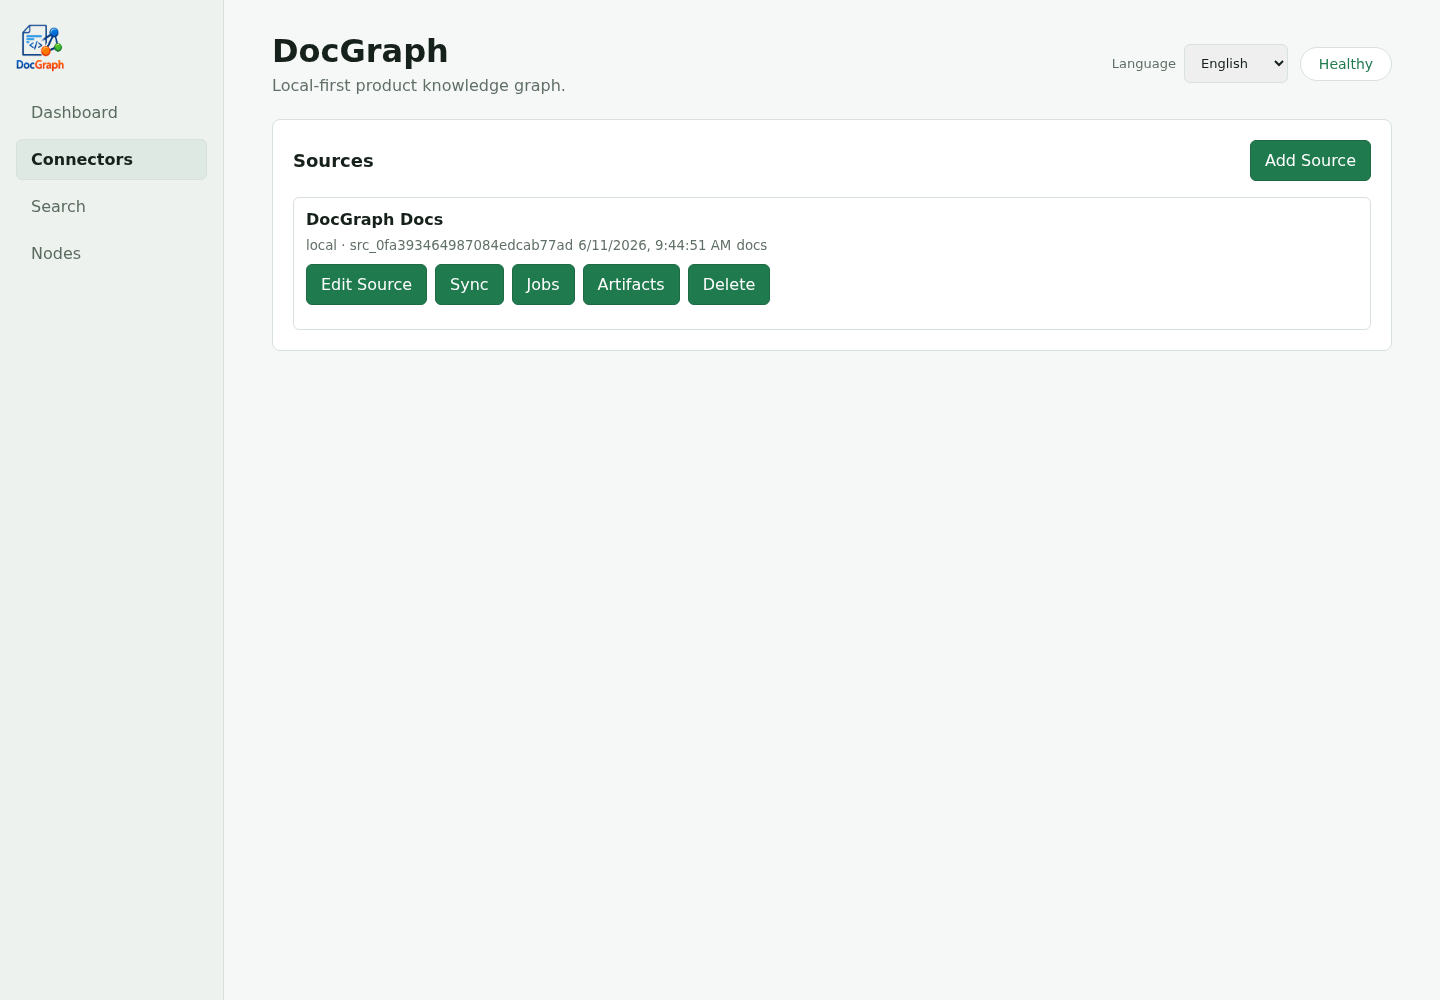
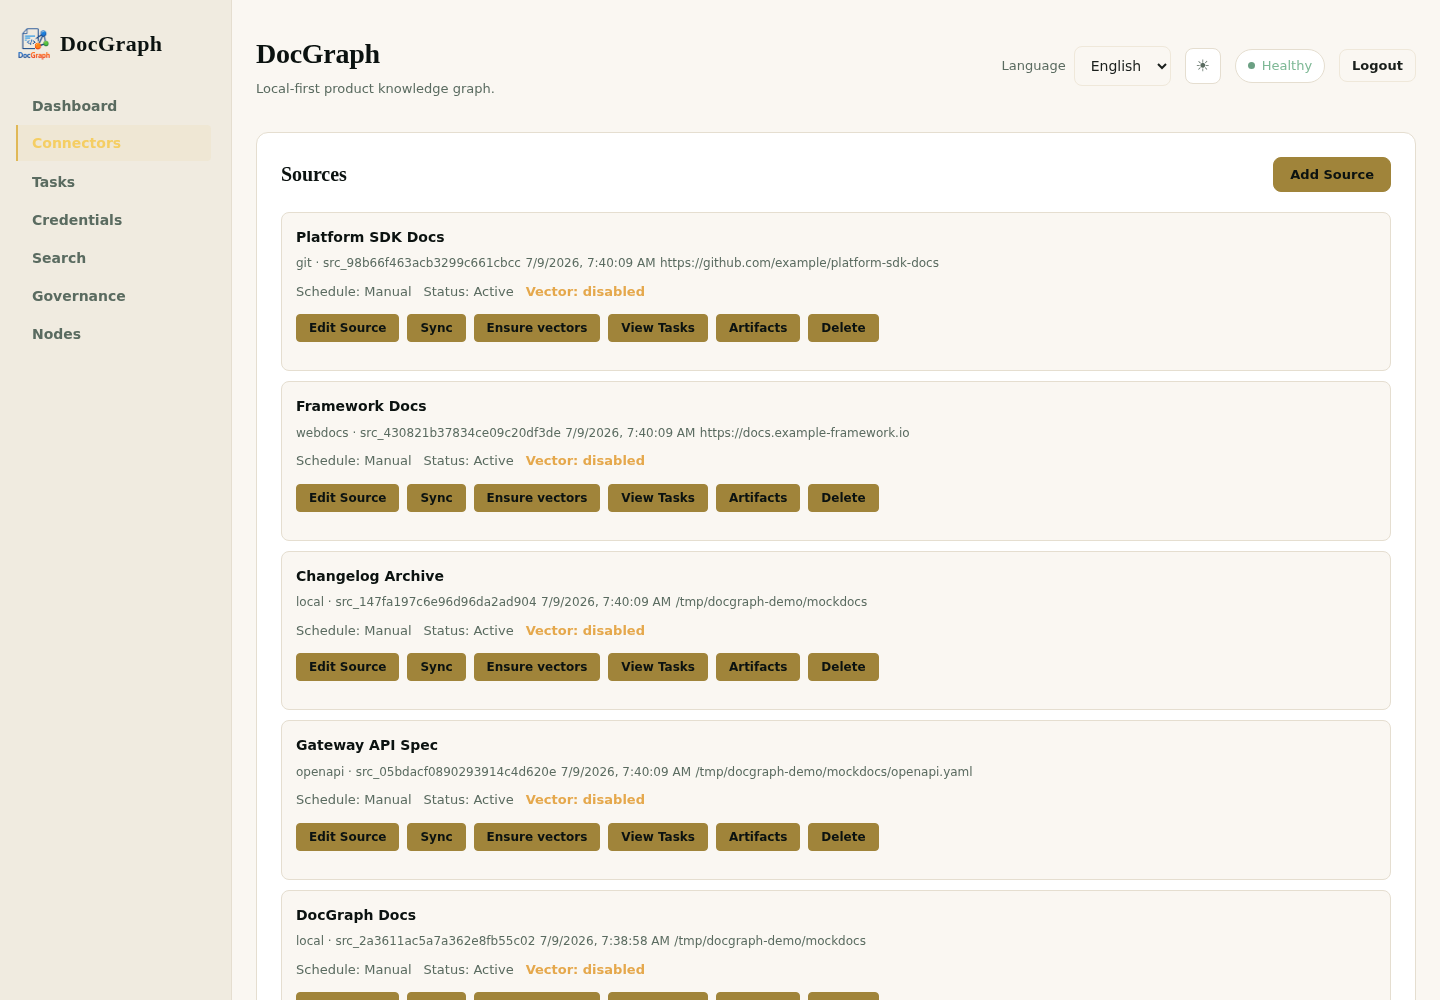
update readme and screenshot to the latest

diff --git a/README.md b/README.md
@@ -12,32 +12,58 @@ Dashboard shows source, document, section, node, edge, and sync-job counts for t
 
 ![DocGraph dashboard](docs/assets/screenshots/docgraph-dashboard.png)
 
-Connectors let you add, edit, sync, and inspect documentation sources.
+Connectors let you add, edit, sync, and inspect documentation sources across 8 connector types.
 
 ![DocGraph connectors](docs/assets/screenshots/docgraph-connectors.png)
 
-Search provides local retrieval across document sections and generated retrieval profiles.
+Search provides hybrid local retrieval across document sections, retrieval profiles, and vector embeddings.
 
 ![DocGraph search](docs/assets/screenshots/docgraph-search.png)
+
+Sync Tasks shows job history with status tracking, plus per-source cron schedules for automatic syncs.
+
+![DocGraph sync tasks](docs/assets/screenshots/docgraph-sync-tasks.png)
+
+Credentials manage Confluence cookie credentials for session-based access.
+
+![DocGraph credentials](docs/assets/screenshots/docgraph-credentials.png)
+
+Governance reviews stale documents, knowledge relation proposals, and feedback markers.
+
+![DocGraph governance](docs/assets/screenshots/docgraph-governance.png)
+
+Nodes browse and search the knowledge graph — product, module, document, section, and API nodes with their relationships.
+
+![DocGraph nodes](docs/assets/screenshots/docgraph-nodes.png)
 
 ## Features
 
 - Single Go binary with an embedded Web UI.
-- Local SQLite + FTS5 storage, no external database required.
+- Local SQLite + FTS5 storage, no external database required. Optional pgvector for hybrid vector search.
 - Connectors for `local`, `git`, `static`, `html`, `sftp`, `confluence`, `openapi`, and `webdocs` sources.
 - MCP tools: `doc_search`, `doc_get_node`, `doc_get_section`, `doc_related`, and `doc_impact`; legacy `doc_context` calls remain compatible but are no longer advertised.
 - Document-backed knowledge graph with nodes, edges, provenance, sync history, and feedback markers.
+- Hybrid vector search with Reciprocal Rank Fusion (RRF): combines FTS5 text retrieval with pgvector cosine similarity, intent-aware routing for entity/conceptual/general queries.
+- Embedding pipeline with configurable OpenAI-compatible provider, chunking strategies (auto/sentence/fixed), and generator version tracking.
+- GSE-based search tokenizer for accurate CJK segmentation alongside English token analysis.
+- Technical term extraction from headings, tables, and code-like content for better recall on API names and config keys.
+- Explicit cross-reference resolution: author-written references surfaced as `suggested_reads.explicit_references`.
+- Sync scheduling with cron expressions per source; job management API for listing, inspecting, and canceling sync jobs.
+- Confluence cookie credential management for session-based Confluence access.
 - Chinese-aware retrieval profile generation for mixed Chinese/English internal docs.
 - Optional token authentication for Web/API/MCP endpoints.
+- MCP over stdio and Streamable HTTP; legacy SSE endpoint retained for older clients.
 
 ## Search Quality
 
 DocGraph is built for documentation search rather than generic text lookup:
 
 - Multi-stage local retrieval combines FTS5 token search, trigram search, profile lookup, and substring fallback so short Chinese phrases, English terms, API names, and symbols can all contribute to recall.
+- Optional hybrid vector search adds a pgvector cosine-similarity lane fused with the text lane via Reciprocal Rank Fusion (RRF). Intent routing classifies queries as entity, conceptual, or general and adjusts text/vector weights accordingly.
 - Search is section-first: results point to the exact document section, heading path, snippet, source URL, and matched evidence instead of only returning whole files.
-- Generated retrieval profiles add deterministic tags, keyphrases, aliases, API references, and section distribution signals while keeping human-maintained document descriptions separate from sync-generated metadata.
-- Ranking uses local signals such as canonical document status, title and heading matches, term coverage, profile matches, exact hits, and approved knowledge relations.
+- Generated retrieval profiles add deterministic tags, keyphrases, aliases, API references, technical terms, and section distribution signals while keeping human-maintained document descriptions separate from sync-generated metadata.
+- Author-written explicit cross-references (e.g., "See also: [Config Guide](../config.md)") are resolved and surfaced as suggested reads alongside knowledge-graph relations.
+- Ranking uses local signals such as canonical document status, title and heading matches, term coverage, profile matches, exact hits, vector similarity, and approved knowledge relations.
 - MCP tools return bounded search summaries first and let agents fetch full sections only when needed, keeping local agent context focused and auditable.
 
 ## How It Works
@@ -46,9 +72,9 @@ DocGraph turns existing documentation into a local, queryable knowledge layer:
 
 1. Connect sources: add local directories, Git repositories, static HTML, Confluence pages, OpenAPI files, SFTP folders, or web documentation centers.
 2. Normalize documents: each connector converts source content into a common document and section model.
-3. Index locally: documents, sections, retrieval profiles, nodes, edges, aliases, and sync jobs are stored in SQLite with FTS5 search.
-4. Build relationships: DocGraph derives product/module/document/section/API nodes and connects them with evidence-backed edges.
-5. Query with evidence: users and agents search sections, assemble task context, inspect related nodes, and run impact analysis through the Web UI, REST API, or MCP.
+3. Index locally: documents, sections, retrieval profiles, nodes, edges, aliases, and sync jobs are stored in SQLite with FTS5 search. Optionally, section chunks are embedded into pgvector for hybrid vector retrieval.
+4. Build relationships: DocGraph derives product/module/document/section/API nodes and connects them with evidence-backed edges. Explicit cross-references and technical terms are extracted for richer retrieval signals.
+5. Query with evidence: users and agents search sections, assemble task context, inspect related nodes, and run impact analysis through the Web UI, REST API, or MCP (stdio and Streamable HTTP).
 
 All data stays in the configured local data directory unless you explicitly expose the server or move the database.
 
@@ -60,6 +86,24 @@ go build -buildvcs=false -o bin/docgraph ./cmd/docgraph
 ```
 
 The first `serve` run creates `docgraph.yaml`, generates a local admin token, migrates the SQLite database, and starts the server. Open `http://127.0.0.1:8787`, enter the token from `docgraph.yaml`, then add and sync documentation sources from the Web UI. `docgraph init` remains available when you want to pre-create or check the config and database without starting the server.
+
+To enable hybrid vector search, add the `vector_search` section to `docgraph.yaml`:
+
+```yaml
+vector_search:
+  enabled: true
+  search_weight: 0.4
+  embedding:
+    provider: openai
+    model: text-embedding-3-small
+    api_url: https://api.openai.com/v1/embeddings
+    api_key: sk-...
+    dimensions: 1536
+  vector_db:
+    dsn: pgvector://user:pass@localhost:5432/docgraph?sslmode=disable
+```
+
+See the configuration reference in `docgraph.yaml` for all options including intent route weights, chunk strategies, and embedding pipeline tuning.
 
 When serving DocGraph behind a reverse proxy path prefix, set `server.web_prefix` in `docgraph.yaml`. For example, `web_prefix: docgraph` serves the Web UI, REST API, and HTTP MCP endpoints under `/docgraph/`; an empty value keeps the default root routes. See `scripts/nginx-docgraph.conf` and `scripts/nginx-docgraph-location.conf` for nginx examples that preserve the prefix when proxying to DocGraph.
 
@@ -102,15 +146,21 @@ git push origin v0.1.0
 
 ## MCP
 
-DocGraph supports stdio MCP:
+DocGraph supports two MCP transports:
+
+| Transport | Endpoint | Use case |
+|-----------|----------|----------|
+| **stdio** | `docgraph mcp` | Local agents, IDE extensions (Claude Code, VS Code, JetBrains) |
+| **Streamable HTTP** | `/mcp` on running server | Remote agents, HTTP-based integrations |
+| **Legacy SSE** | `/mcp/sse` | Older clients; deprecated but retained for compatibility |
+
+stdio mode:
 
 ```bash
 ./bin/docgraph mcp --data ./.docgraph
 ```
 
-Streamable HTTP MCP is available at `/mcp` when `docgraph serve` is running.
-Legacy HTTP/SSE compatibility endpoints remain available at `/mcp/sse`. Setup
-details are documented in [docs/mcp-setup.md](docs/mcp-setup.md).
+Streamable HTTP is available when `docgraph serve` is running. See [docs/mcp-setup.md](docs/mcp-setup.md) for full setup instructions.
 
 ## Runtime Dependencies
 

diff --git a/README.zh-CN.md b/README.zh-CN.md
@@ -12,31 +12,58 @@ Dashboard 展示当前本地知识库的来源、文档、section、节点、边
 
 ![DocGraph dashboard](docs/assets/screenshots/docgraph-dashboard.png)
 
-Connectors 页面用于添加、编辑、同步和查看文档来源。
+Connectors 页面用于添加、编辑、同步和查看文档来源，支持 8 种连接器类型。
 
 ![DocGraph connectors](docs/assets/screenshots/docgraph-connectors.png)
 
-Search 页面提供面向文档 section 和 profile 的本地检索。
+Search 页面提供混合本地检索，结合文档 section、检索 profile 和向量嵌入。
 
 ![DocGraph search](docs/assets/screenshots/docgraph-search.png)
+
+同步任务页面展示任务历史和状态追踪，以及每个来源的 cron 定时同步调度。
+
+![DocGraph sync tasks](docs/assets/screenshots/docgraph-sync-tasks.png)
+
+凭证管理页面管理 Confluence cookie 凭证，用于会话式访问。
+
+![DocGraph credentials](docs/assets/screenshots/docgraph-credentials.png)
+
+治理页面审核过期文档、知识关系提案和反馈标注。
+
+![DocGraph governance](docs/assets/screenshots/docgraph-governance.png)
+
+节点页面浏览和搜索知识图谱——产品、模块、文档、section 和 API 节点及其关系。
+
+![DocGraph nodes](docs/assets/screenshots/docgraph-nodes.png)
 
 ## 功能概览
 
 - 单个 Go 可执行文件，内置 Web UI。
-- 本地 SQLite + FTS5，不依赖外部数据库。
+- 本地 SQLite + FTS5，不依赖外部数据库。可选 pgvector 实现混合向量搜索。
 - 支持 local、git、static、html、sftp、confluence、openapi、webdocs 等来源。
 - 支持 `doc_search`、`doc_get_node`、`doc_get_section`、`doc_related`、`doc_impact` MCP 工具；旧版 `doc_context` 调用仍兼容，但不再主动暴露。
-- 支持中文检索辅助 profile、本地知识图谱节点/边、同步任务历史和反馈标注。
+- 支持本地知识图谱节点/边、同步任务历史和反馈标注。
+- 混合向量搜索 + RRF 融合排序：FTS5 文本检索与 pgvector 向量相似度检索融合，按查询意图（entity/conceptual/general）自动调节权重。
+- 嵌入管线：可配置 OpenAI 兼容 embedding provider，支持 auto/sentence/fixed 分块策略，带版本追踪和过期检测。
+- 基于 GSE 的搜索分词器，CJK 精确分词配合英文 token 分析。
+- 技术术语提取：从标题、表格和代码类内容中提取 API 名称和配置键，提升精确检索召回。
+- 显式交叉引用解析：作者写的文档引用（如"参见：[配置指南](../config.md)"）作为 `suggested_reads.explicit_references` 返回。
+- 定时同步调度：每个源可配置 cron 表达式自动同步；Job 管理 API 支持查看和取消同步任务。
+- Confluence cookie 凭证管理：CRUD API + Web UI 管理 Confluence 会话 cookie。
+- 支持中文检索辅助 profile 生成。
 - 支持 token 模式保护 Web/API/MCP 入口。
+- MCP 支持 stdio 和 Streamable HTTP 两种传输方式；旧版 SSE 端点保留兼容。
 
 ## 搜索优势
 
 DocGraph 的搜索面向文档消费和 agent 上下文获取，不只是普通全文匹配：
 
 - 多阶段本地召回结合 FTS5 分词检索、trigram 检索、profile 检索和子串兜底，让中文短语、英文术语、API 名称和符号都能参与召回。
+- 可选混合向量搜索增加 pgvector 余弦相似度车道，与文本车道通过 RRF（Reciprocal Rank Fusion）融合排序。意图路由自动识别 entity/conceptual/general 查询并调整文本/向量权重。
 - 结果以 section 为核心，返回具体文档、标题路径、片段、来源 URL 和命中证据，而不是只给整篇文件。
-- 检索 profile 会确定性生成标签、关键短语、别名、API 引用和 section 分布信号，同时把人工维护的文档描述与同步生成的元数据分开。
-- 排序会综合 canonical 状态、标题和 heading 命中、词项覆盖、profile 命中、精确匹配以及已批准的知识关系。
+- 检索 profile 会确定性生成标签、关键短语、别名、API 引用、技术术语和 section 分布信号，同时把人工维护的文档描述与同步生成的元数据分开。
+- 作者写的显式交叉引用（如"参见：[配置指南](../config.md)"）会被解析并作为推荐阅读返回，和知识图谱关系并列展示。
+- 排序会综合 canonical 状态、标题和 heading 命中、词项覆盖、profile 命中、精确匹配、向量相似度和已批准的知识关系。
 - MCP 工具默认先返回有边界的搜索摘要，agent 需要时再按 section 拉取全文，避免一次性塞入过多本地上下文。
 
 ## 工作原理
@@ -45,9 +72,9 @@ DocGraph 会把已有文档转换成本地可查询的知识层：
 
 1. 连接来源：添加本地目录、Git 仓库、静态 HTML、Confluence 页面、OpenAPI 文件、SFTP 目录或在线文档站点。
 2. 统一文档模型：每个 connector 把来源内容转换成通用的 document 和 section。
-3. 本地索引：文档、section、检索 profile、节点、边、别名和同步任务都存入 SQLite，并使用 FTS5 做全文检索。
-4. 构建关系：从内容中生成 product、module、document、section、API 等节点，并用带证据的边连接起来。
-5. 带证据查询：用户和 agent 可以通过 Web UI、REST API 或 MCP 检索 section、拼装任务上下文、查看相关节点和做影响分析。
+3. 本地索引：文档、section、检索 profile、节点、边、别名和同步任务都存入 SQLite，并使用 FTS5 做全文检索。可选将 section chunk 嵌入 pgvector 实现混合向量检索。
+4. 构建关系：从内容中生成 product、module、document、section、API 等节点，并用带证据的边连接起来。显式交叉引用和技术术语会被提取，丰富检索信号。
+5. 带证据查询：用户和 agent 可以通过 Web UI、REST API 或 MCP（stdio 和 Streamable HTTP）检索 section、拼装任务上下文、查看相关节点和做影响分析。
 
 除非你主动暴露服务或移动数据库，数据会保留在配置的本地数据目录里。
 
@@ -59,6 +86,24 @@ go build -buildvcs=false -o bin/docgraph ./cmd/docgraph
 ```
 
 首次 `serve` 会创建 `docgraph.yaml`、生成本地管理秘钥、迁移 SQLite 数据库并启动服务。打开 `http://127.0.0.1:8787`，输入 `docgraph.yaml` 里的 token 后，可以在 Web UI 中添加和同步文档来源。`docgraph init` 仍然保留，用于只预创建或检查配置和数据库、不启动服务的运维场景。
+
+启用混合向量搜索，在 `docgraph.yaml` 里添加 `vector_search` 配置：
+
+```yaml
+vector_search:
+  enabled: true
+  search_weight: 0.4
+  embedding:
+    provider: openai
+    model: text-embedding-3-small
+    api_url: https://api.openai.com/v1/embeddings
+    api_key: sk-...
+    dimensions: 1536
+  vector_db:
+    dsn: pgvector://user:pass@localhost:5432/docgraph?sslmode=disable
+```
+
+完整配置选项（意图路由权重、分块策略、嵌入管线调参等）参见 `docgraph.yaml` 中的配置参考。
 
 如果需要把 DocGraph 部署在反向代理的路径前缀后面，可以在 `docgraph.yaml` 里设置 `server.web_prefix`。例如 `web_prefix: docgraph` 会把 Web UI、REST API 和 HTTP MCP 端点都放到 `/docgraph/` 下；留空则保持默认根路径。nginx 示例见 `scripts/nginx-docgraph.conf` 和 `scripts/nginx-docgraph-location.conf`，示例会保留前缀转发给 DocGraph。
 
@@ -101,14 +146,21 @@ git push origin v0.1.0
 
 ## MCP 使用
 
-DocGraph 支持 stdio MCP：
+DocGraph 支持两种 MCP 传输方式：
+
+| 传输方式 | 端点 | 适用场景 |
+|-----------|------|----------|
+| **stdio** | `docgraph mcp` | 本地 agent、IDE 插件（Claude Code、VS Code、JetBrains） |
+| **Streamable HTTP** | 运行中服务器的 `/mcp` | 远程 agent、HTTP 集成 |
+| **旧版 SSE** | `/mcp/sse` | 旧客户端兼容；已弃用但保留可用 |
+
+stdio 模式：
 
 ```bash
 ./bin/docgraph mcp --data ./.docgraph
 ```
 
-运行 `docgraph serve` 时，也可以通过 `/mcp` 使用 Streamable HTTP MCP；
-旧的 HTTP/SSE 兼容入口仍保留在 `/mcp/sse`。配置参考 [docs/mcp-setup.md](docs/mcp-setup.md)。
+Streamable HTTP 在 `docgraph serve` 运行时可用。完整配置参考 [docs/mcp-setup.md](docs/mcp-setup.md)。
 
 ## 运行时依赖
 
